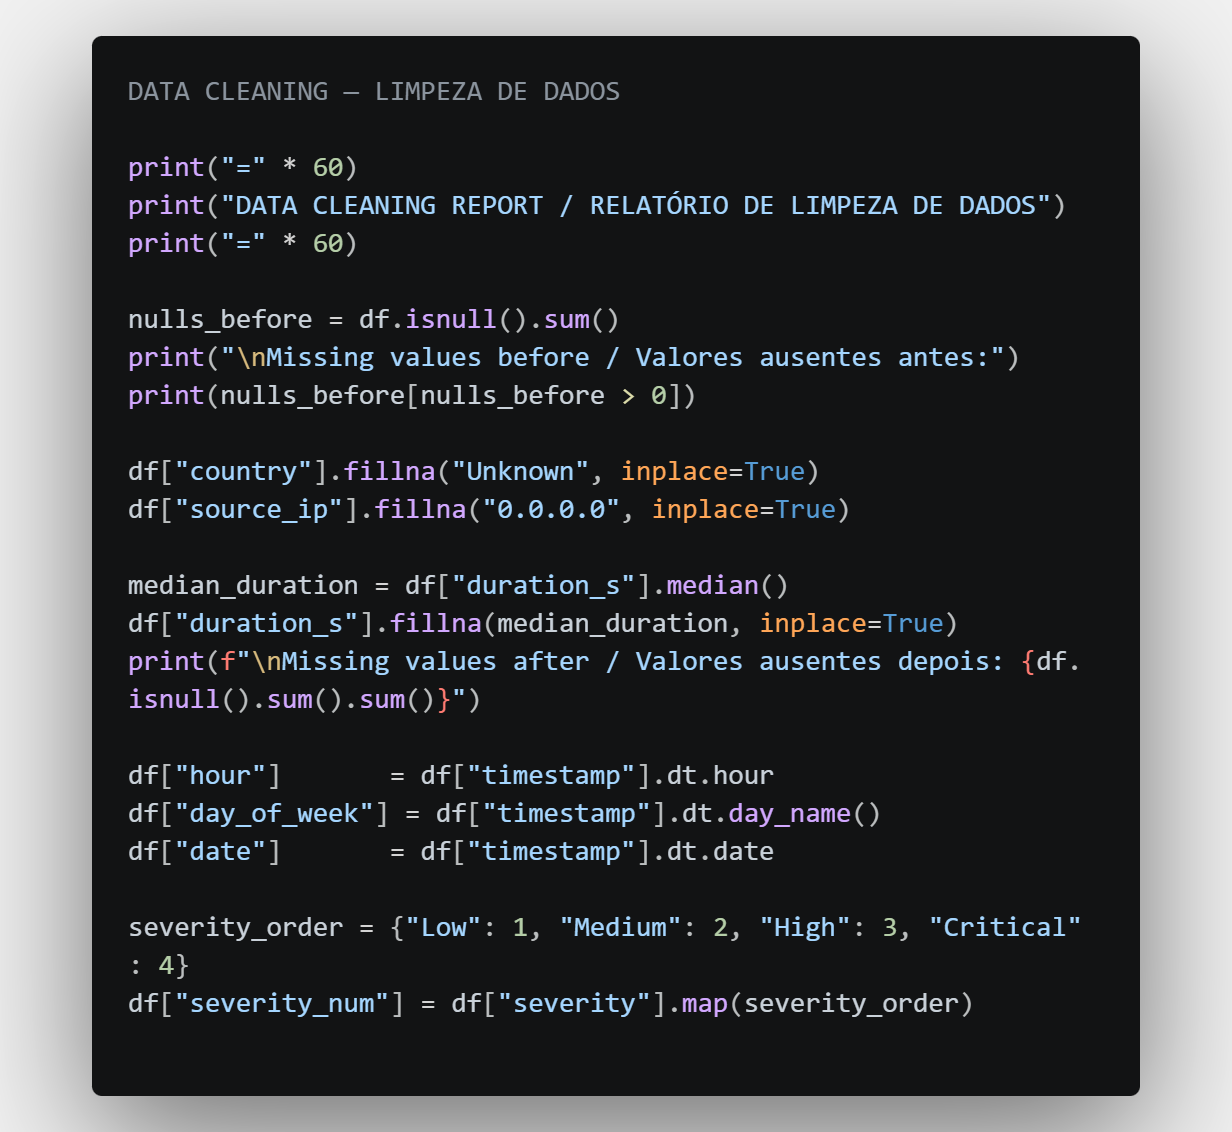
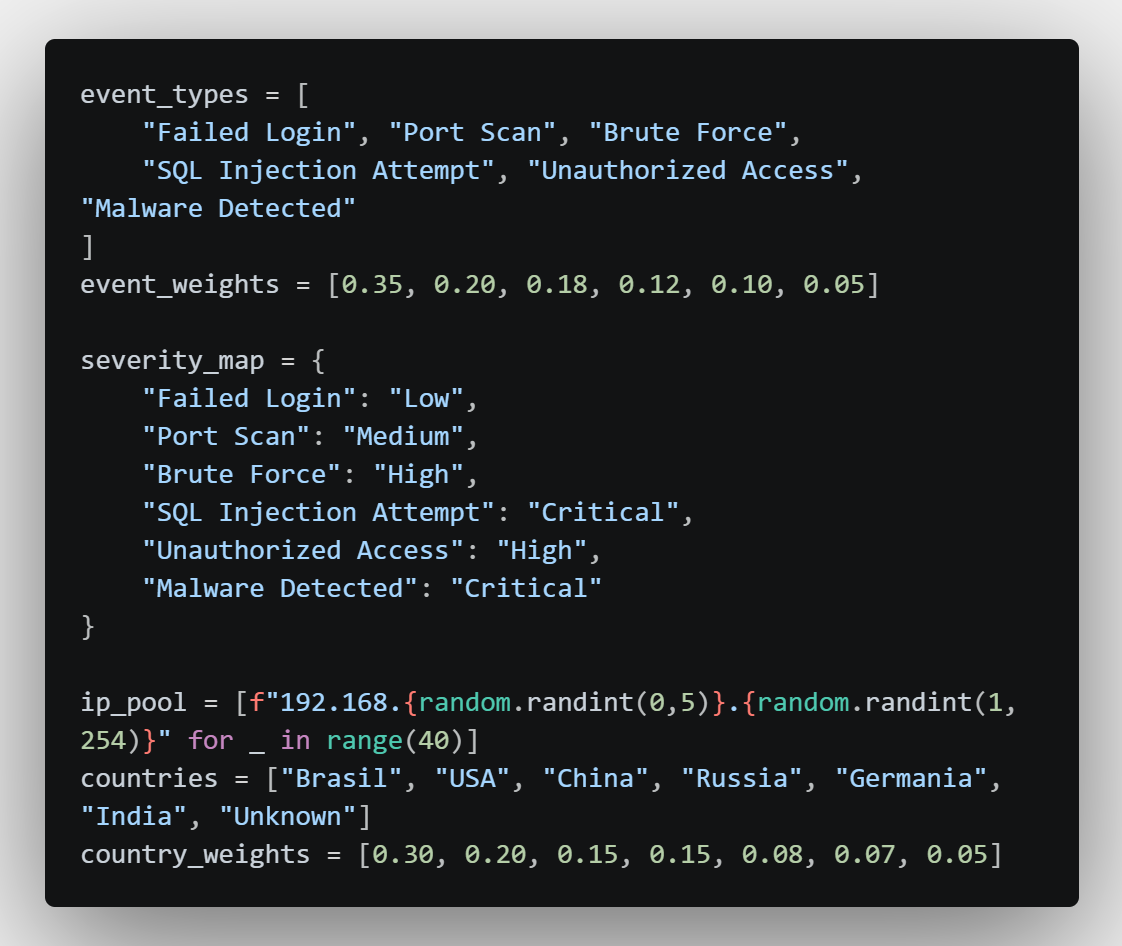
Atualiza slide EDA com novo print e ajusta links de navegação

Changed region(s): [[0.0, 0.0307, 0.9982, 0.981], [0.4991, 0.3985, 0.6863, 0.4598], [0.8422, 0.5825, 0.8734, 0.6131]]

diff --git a/dados.html b/dados.html
@@ -221,7 +221,7 @@
         </p>
         <div class="hero-cta">
           <a href="#" class="btn btn-solid" onclick="goTo(4); return false;" data-en="View Projects" data-pt="Ver Projetos">View Projects</a>
-          <a href="#" class="btn btn-outline" onclick="goTo(8); return false;" data-en="Contact" data-pt="Contato">Contact</a>
+          <a href="#" class="btn btn-outline" onclick="goTo(9); return false;" data-en="Contact" data-pt="Contato">Contact</a>
         </div>
         <div class="hero-stats">
           <div>
@@ -468,8 +468,6 @@
             <div class="dashboard-tags">
               <span class="tag">Power BI</span><span class="tag">Python</span><span class="tag">DAX</span><span class="tag">ETL</span><span class="tag">KPIs</span><span class="tag">Data Pipeline</span>
             </div>
-            <!-- ← Troque pelo link do repositório -->
-            <a href="https://github.com/Stefaniasgs/dashboard-custos-ti" target="_blank" class="btn btn-solid" style="margin-top:1.5rem;" data-en="View on GitHub ↗" data-pt="Ver no GitHub ↗">View on GitHub ↗</a>
           </div>
         </div>
       </div>
@@ -513,7 +511,7 @@
               <span class="tag">Python</span><span class="tag">Pandas</span><span class="tag">Excel·XLSX</span><span class="tag">Data Cleaning</span><span class="tag">ETL</span>
             </div>
             <!-- ← Troque pelo link do repositório -->
-            <a href="https://github.com/Stefaniasgs/dashboard-custos-ti" target="_blank" class="btn btn-solid" style="margin-top:1.5rem;" data-en="View on GitHub ↗" data-pt="Ver no GitHub ↗">View on GitHub ↗</a>
+            <a href="https://github.com/Stefaniasgs/it-cost-dashboard" target="_blank" class="btn btn-solid" style="margin-top:1.5rem;" data-en="View on GitHub ↗" data-pt="Ver no GitHub ↗">View on GitHub ↗</a>
           </div>
         </div>
       </div>
@@ -523,40 +521,40 @@
     <div class="slide" id="slide-7" data-name-en="EDA Script" data-name-pt="Script EDA">
       <div class="slide-inner">
         <div class="slide-tag" data-en="Data Pipeline · Python" data-pt="Pipeline de Dados · Python">Data Pipeline · Python</div>
-        <h2><em data-en="Data Cleaning" data-pt="Limpeza de Dados">Data Cleaning</em> <span data-en="· EDA Security Logs" data-pt="· EDA Security Logs">· EDA Security Logs</span></h2>
+        <h2><em data-en="Security Log" data-pt="Security Log">Security Log</em> <span data-en="EDA Pipeline" data-pt="EDA Pipeline">EDA Pipeline</span></h2>
         <div class="line"></div>
         <div class="script-layout">
           <div class="script-imgs">
             <div class="code-img-wrap">
-              <div class="code-img-label">Data Cleaning · Missing Values &amp; Derived Columns</div>
-              <img src="imagens/script_eda_1.png" alt="Script EDA - Data Cleaning" class="code-img"/>
+              <div class="code-img-label">Event Types, Severity Map &amp; Synthetic Data Config</div>
+              <img src="imagens/script_eda_1.png" alt="Script EDA - Configuração de dados sintéticos" class="code-img"/>
             </div>
           </div>
           <div class="script-desc">
-            <div class="script-title" data-en="Data Cleaning Pipeline · Python" data-pt="Pipeline de Limpeza de Dados · Python">Data Cleaning Pipeline · Python</div>
+            <div class="script-title" data-en="Security Log EDA Pipeline" data-pt="Pipeline de EDA de Logs de Segurança">Security Log EDA Pipeline</div>
             <p class="script-text"
-               data-en="Python script responsible for the full data cleaning pipeline of the IT Cost Dashboard project. Loads a raw Excel file, checks for null values, corrects data types (dates, integers and decimals), standardizes text fields, validates financial values, removes duplicate records and exports a clean, analysis-ready file."
-               data-pt="Script Python responsável pelo pipeline completo de limpeza de dados do projeto Dashboard de Custos de TI. Carrega um arquivo Excel bruto, verifica valores nulos, corrige tipos de dados (datas, inteiros e decimais), padroniza campos de texto, valida valores financeiros, remove registros duplicados e exporta um arquivo limpo e pronto para análise.">
-              Python script responsible for the full data cleaning pipeline of the IT Cost Dashboard project. Loads a raw Excel file, checks for null values, corrects data types (dates, integers and decimals), standardizes text fields, validates financial values, removes duplicate records and exports a clean, analysis-ready file.
+               data-en="Exploratory data analysis pipeline in Python (Pandas, Seaborn, Matplotlib) for synthetic security logs. Covers data cleaning with null handling, descriptive statistics, and a visual dashboard with 4 panels: event distribution, severity, temporal attack pattern and geographic origin."
+               data-pt="Pipeline de análise exploratória em Python (Pandas, Seaborn, Matplotlib) para logs de segurança sintéticos: limpeza de dados com tratamento de nulos, estatísticas descritivas e dashboard visual com 4 painéis (distribuição de eventos, severidade, padrão temporal de ataques e origem geográfica).">
+              Exploratory data analysis pipeline in Python (Pandas, Seaborn, Matplotlib) for synthetic security logs. Covers data cleaning with null handling, descriptive statistics, and a visual dashboard with 4 panels: event distribution, severity, temporal attack pattern and geographic origin.
             </p>
             <p class="script-text"
-               data-en="Each step is logged to the terminal, making the pipeline transparent and easy to audit. A final summary displays total records, date range, total spend and a breakdown by category."
-               data-pt="Cada etapa é registrada no terminal, tornando o pipeline transparente e fácil de auditar. Um resumo final exibe o total de registros, o período, o total gasto e um detalhamento por categoria.">
-              Each step is logged to the terminal, making the pipeline transparent and easy to audit. A final summary displays total records, date range, total spend and a breakdown by category.
+               data-en="Synthetic data is generated with realistic event types and severity weighting, then cleaned and enriched before being summarized into the 4-panel visual dashboard."
+               data-pt="Os dados sintéticos são gerados com tipos de evento e pesos de severidade realistas, depois limpos e enriquecidos antes de serem resumidos no dashboard visual de 4 painéis.">
+              Synthetic data is generated with realistic event types and severity weighting, then cleaned and enriched before being summarized into the 4-panel visual dashboard.
             </p>
             <div class="pipeline-steps">
-              <div class="pipeline-step"><span class="step-num">01</span><span class="step-label" data-en="Load raw Excel &amp; report nulls" data-pt="Carregar Excel bruto e reportar nulos">Load raw Excel &amp; report nulls</span></div>
+              <div class="pipeline-step"><span class="step-num">01</span><span class="step-label" data-en="Generate synthetic event logs" data-pt="Gerar logs de eventos sintéticos">Generate synthetic event logs</span></div>
               <div class="pipeline-arrow">↓</div>
-              <div class="pipeline-step"><span class="step-num">02</span><span class="step-label" data-en="Fill missing values &amp; fix data types" data-pt="Preencher nulos e corrigir tipos">Fill missing values &amp; fix data types</span></div>
+              <div class="pipeline-step"><span class="step-num">02</span><span class="step-label" data-en="Clean data &amp; handle nulls" data-pt="Limpar dados e tratar nulos">Clean data &amp; handle nulls</span></div>
               <div class="pipeline-arrow">↓</div>
-              <div class="pipeline-step"><span class="step-num">03</span><span class="step-label" data-en="Add derived time columns" data-pt="Adicionar colunas de tempo derivadas">Add derived time columns</span></div>
+              <div class="pipeline-step"><span class="step-num">03</span><span class="step-label" data-en="Compute descriptive statistics" data-pt="Calcular estatísticas descritivas">Compute descriptive statistics</span></div>
               <div class="pipeline-arrow">↓</div>
-              <div class="pipeline-step"><span class="step-num">04</span><span class="step-label" data-en="Map severity to numeric &amp; export" data-pt="Mapear severidade e exportar">Map severity to numeric &amp; export</span></div>
+              <div class="pipeline-step"><span class="step-num">04</span><span class="step-label" data-en="Build 4-panel visual dashboard" data-pt="Montar dashboard visual de 4 painéis">Build 4-panel visual dashboard</span></div>
             </div>
             <div class="dashboard-tags" style="margin-top:1rem;">
-              <span class="tag">Python</span><span class="tag">Pandas</span><span class="tag">Excel·XLSX</span><span class="tag">Data Cleaning</span><span class="tag">EDA</span><span class="tag">Security Logs</span>
+              <span class="tag">Python</span><span class="tag">Pandas</span><span class="tag">Seaborn</span><span class="tag">Matplotlib</span><span class="tag">EDA</span><span class="tag">Security Logs</span>
             </div>
-            <a href="https://github.com/Stefaniasgs/SEU_REPO_EDA" target="_blank" class="btn btn-solid" style="margin-top:1.5rem;" data-en="View on GitHub ↗" data-pt="Ver no GitHub ↗">View on GitHub ↗</a>
+            <a href="https://github.com/Stefaniasgs/security-logs-eda" target="_blank" class="btn btn-solid" style="margin-top:1.5rem;" data-en="View on GitHub ↗" data-pt="Ver no GitHub ↗">View on GitHub ↗</a>
           </div>
         </div>
       </div>
@@ -598,7 +596,7 @@
               <span class="tag">Python</span><span class="tag">Pandas</span><span class="tag">NumPy</span><span class="tag">HTML·CSS</span><span class="tag">SOC·KPIs</span><span class="tag">Zero Dependencies</span>
             </div>
             <!-- ← Troque pelo link do repositório quando publicar -->
-            <a href="https://github.com/Stefaniasgs/SEU_REPO_REPORT_GENERATOR" target="_blank" class="btn btn-solid" style="margin-top:1.5rem;" data-en="View on GitHub ↗" data-pt="Ver no GitHub ↗">View on GitHub ↗</a>
+            <a href="https://github.com/Stefaniasgs/security-report-generator" target="_blank" class="btn btn-solid" style="margin-top:1.5rem;" data-en="View on GitHub ↗" data-pt="Ver no GitHub ↗">View on GitHub ↗</a>
           </div>
         </div>
       </div>